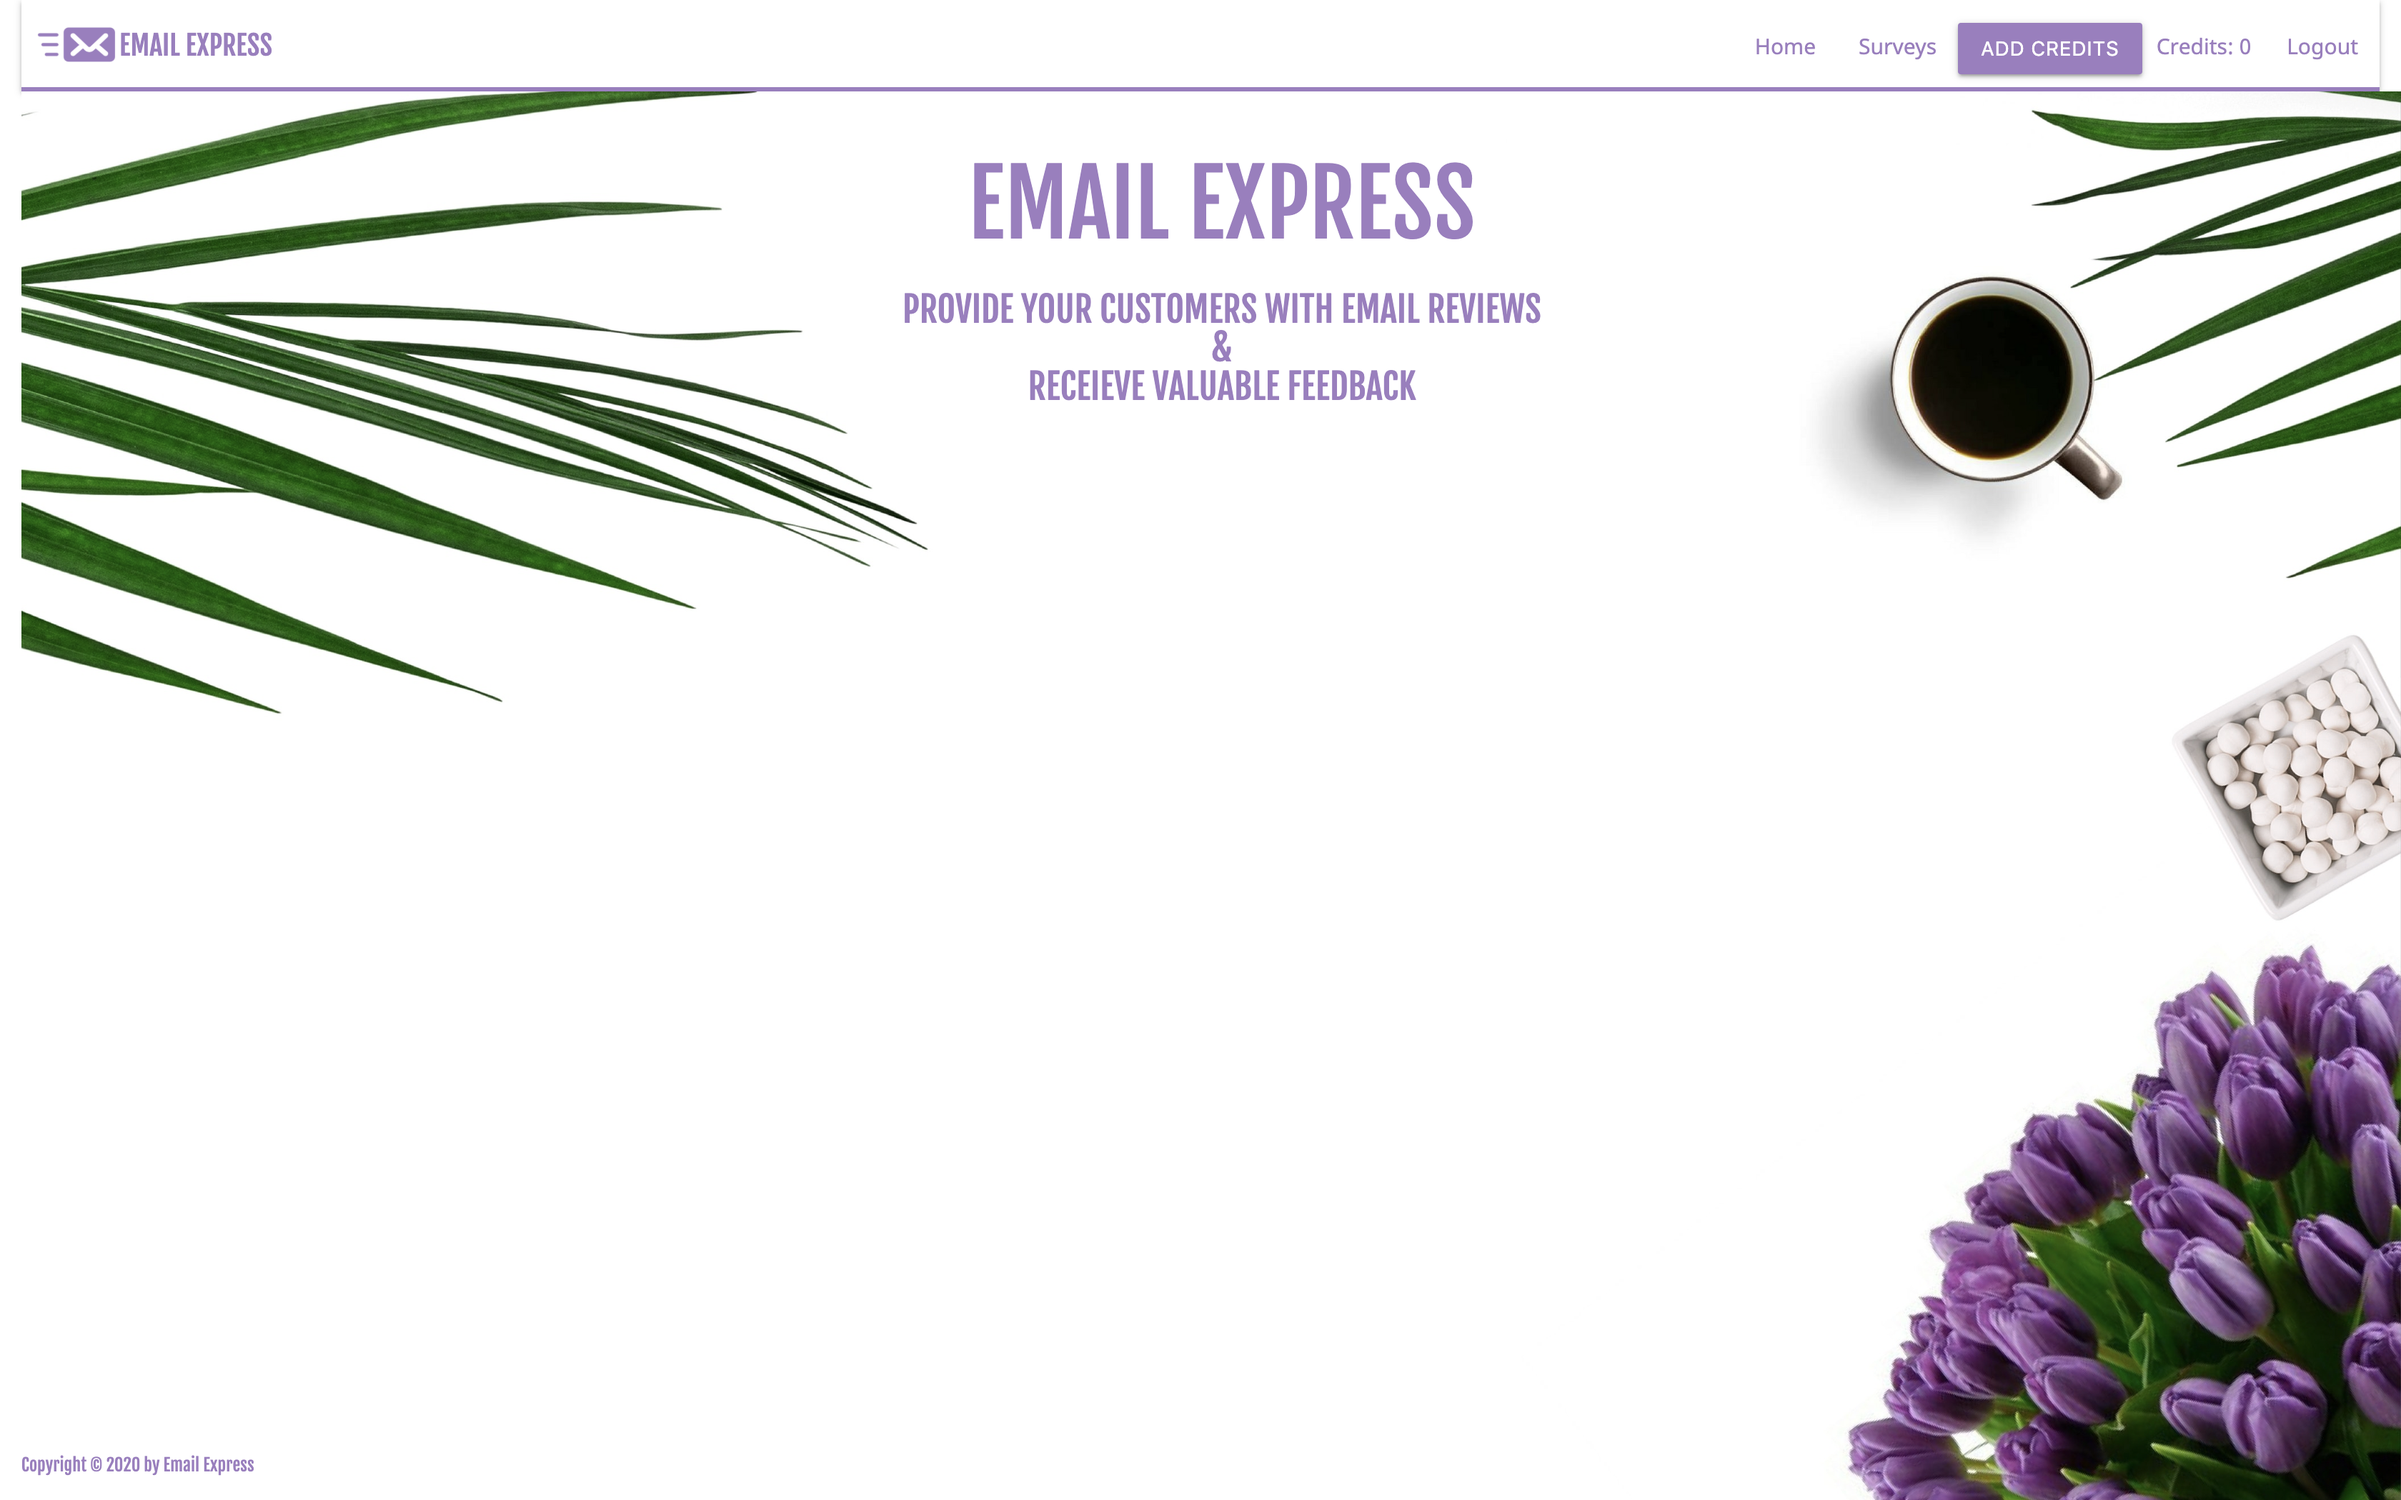
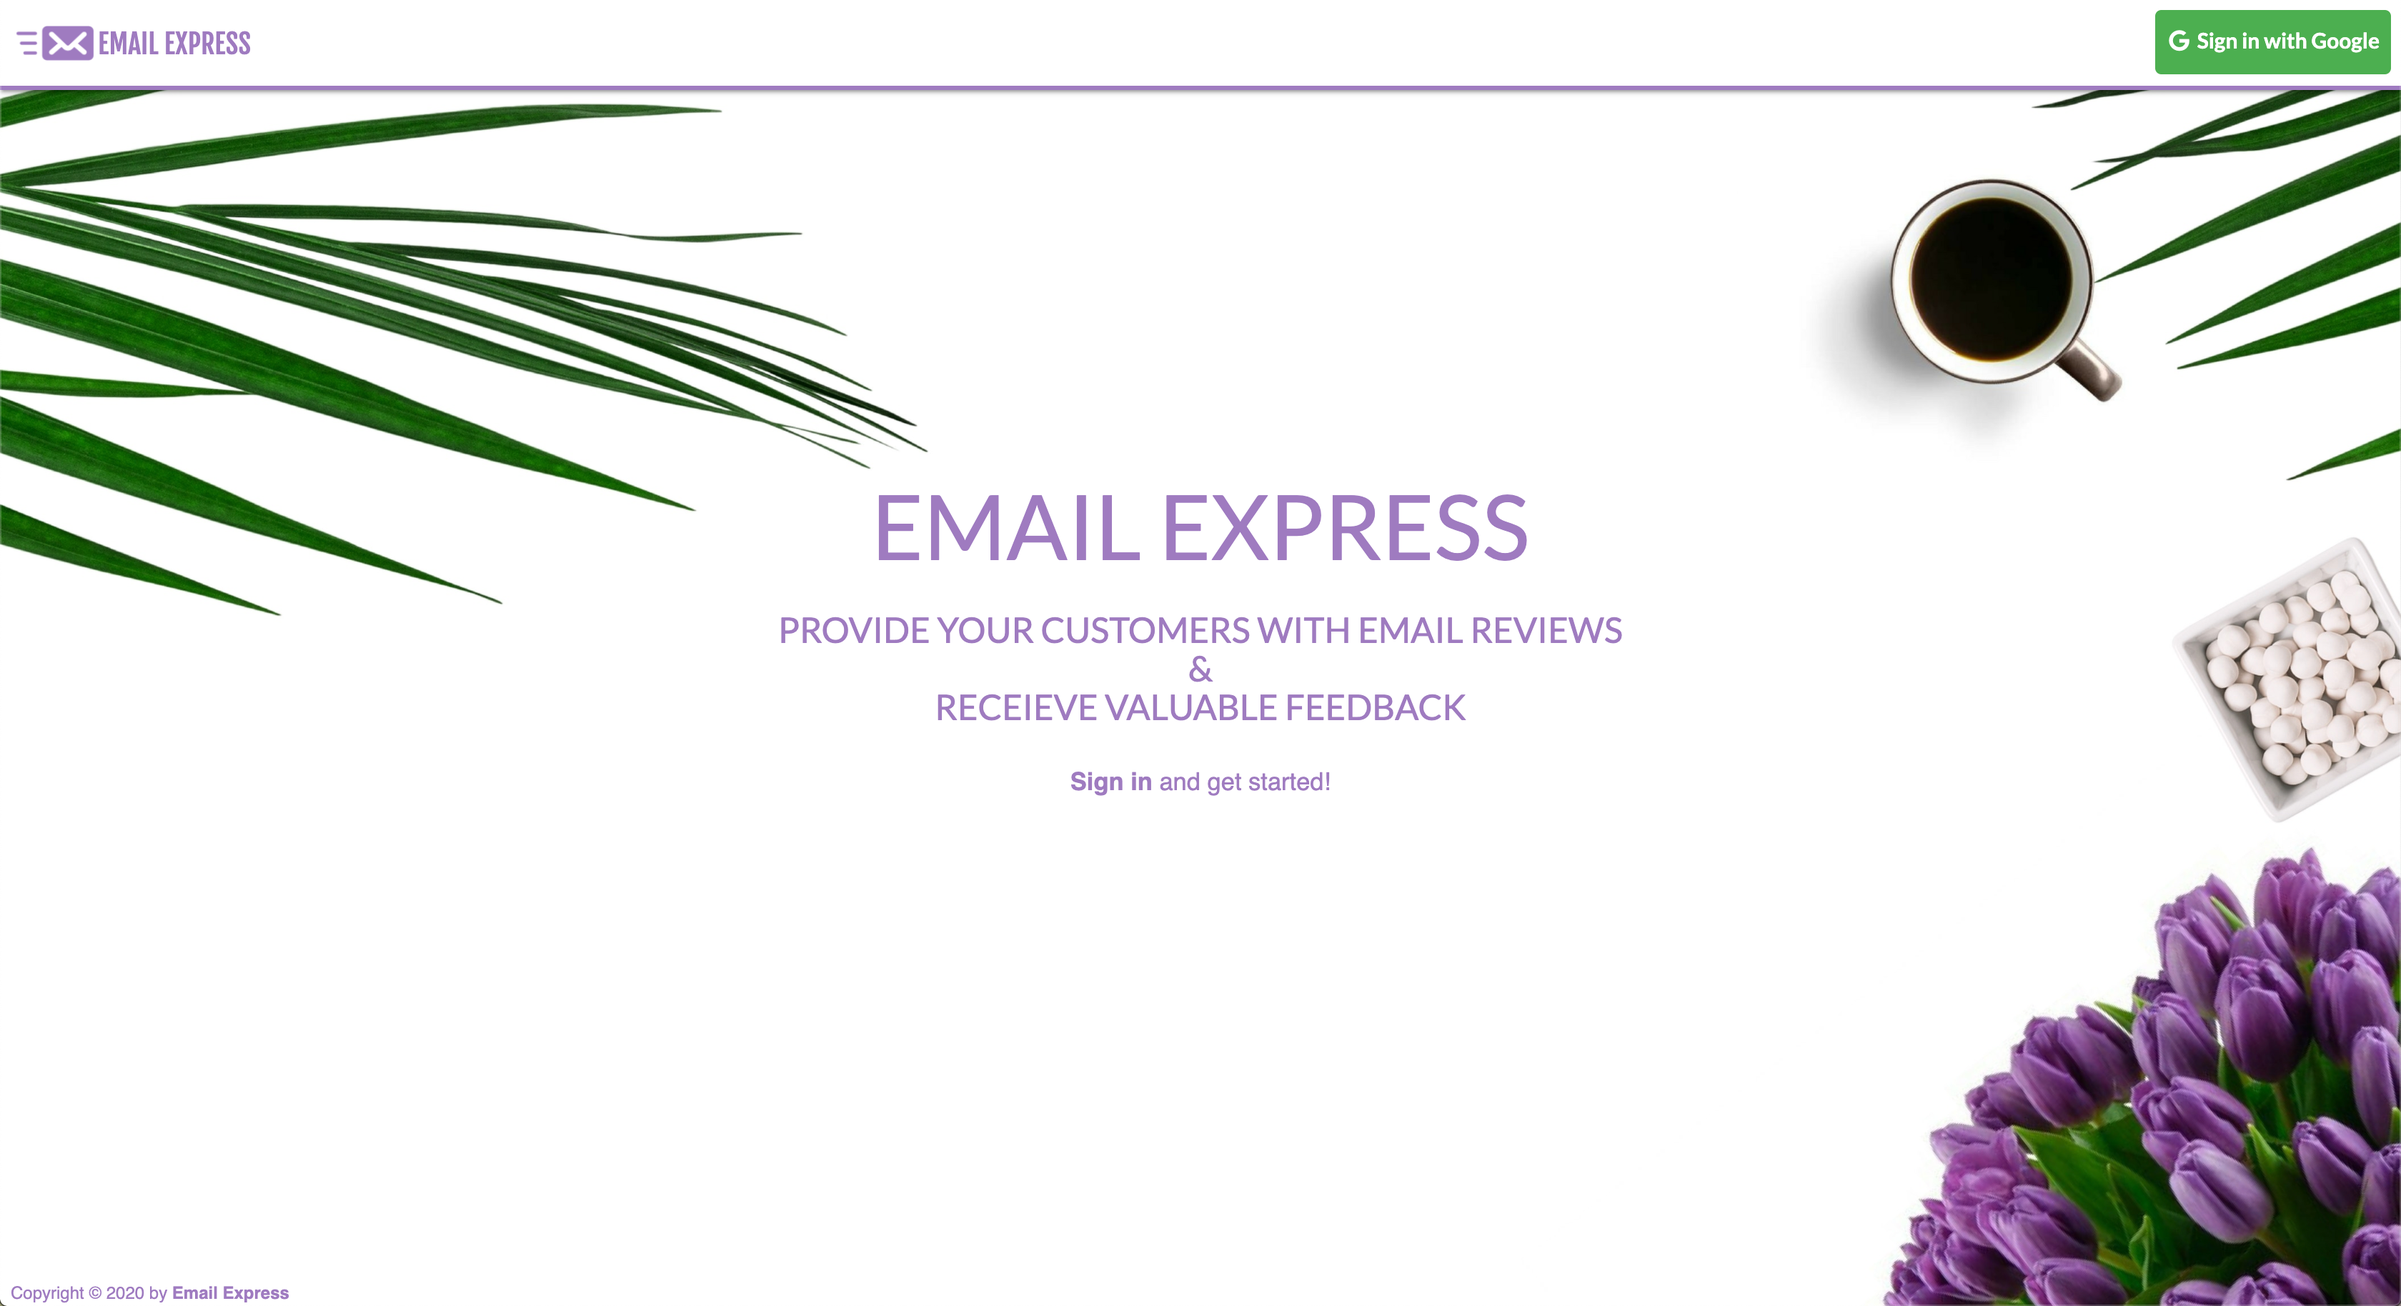
changed google sign in button & landing text

diff --git a/client/src/components/Header.js b/client/src/components/Header.js
@@ -11,11 +11,12 @@ class Header extends Component {
 				return;
 			case false:
 				return (
-					<li>
-						<a style={styles.google} className="btn" href="/auth/google">
-							Login with Google
-						</a>
-					</li>
+					<a href="auth/google" className="ui green google button">
+						<div className="sign">
+							<i className="google icon" />
+							Sign in with Google
+						</div>
+					</a>
 				);
 			default:
 				return (
@@ -34,11 +35,12 @@ class Header extends Component {
 							<Payments />
 						</li>
 						<li style={styles.credits}>Credits: {this.props.auth.credits}</li>
-						<li>
-							<a href="/api/logout" style={styles.logout}>
-								Logout
-							</a>
-						</li>
+						<a href="api/logout" className="ui red google button">
+							<div className="sign">
+								<i className="google icon" />
+								Sign Out
+							</div>
+						</a>
 					</React.Fragment>
 				);
 		}
@@ -86,14 +88,6 @@ const styles = {
 	credits: {
 		margin: '0 10px',
 		color: '#9F7BC1'
-	},
-	logout: {
-		color: '#9F7BC1',
-		textDecoration: 'none'
-	},
-	google: {
-		backgroundColor: '#9F7BC1',
-		textDecoration: 'none'
 	}
 };
 

diff --git a/client/src/components/Landing.js b/client/src/components/Landing.js
@@ -14,8 +14,14 @@ const Landing = () => {
 							<br />
 							RECEIEVE VALUABLE FEEDBACK
 						</h5>
+						<h6>
+							<br />
+							<b>Sign in</b> and get started!
+						</h6>
 					</div>
-					<p style={styles.copyright}>Copyright &copy; 2020 by Email Express </p>
+					<p style={styles.copyright}>
+						Copyright &copy; 2020 by <b>Email Express</b>
+					</p>
 				</div>
 			</div>
 		</React.Fragment>

diff --git a/client/src/main.css b/client/src/main.css
@@ -26,6 +26,15 @@ h1 {
 }
 
 .title {
-	font-family: 'Fjalla One', sans-serif;
+	font-family: 'Fja	lla One', sans-serif;
 	padding-top: 15rem;
+}
+
+.ui.button {
+	padding: 0 .5rem 0 .5rem;
+	margin: .5rem;
+	height: 3rem;
+	display: flex;
+	justify-content: center;
+	align-items: center;
 }
